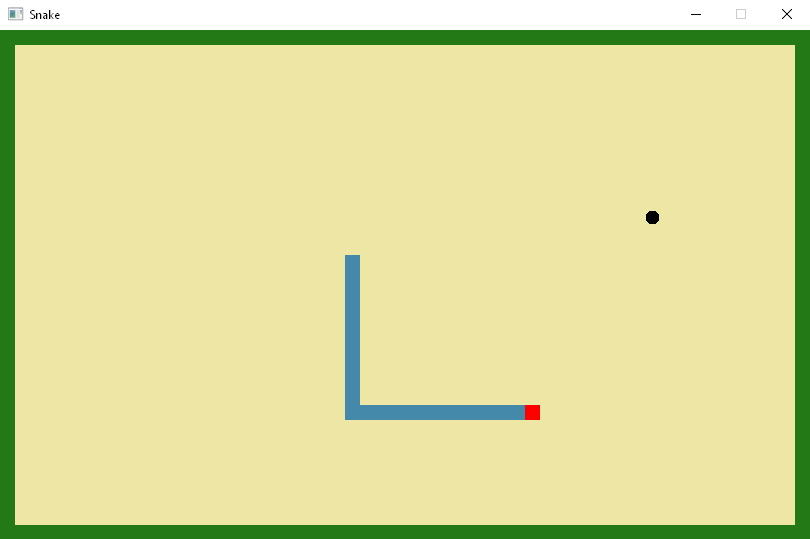
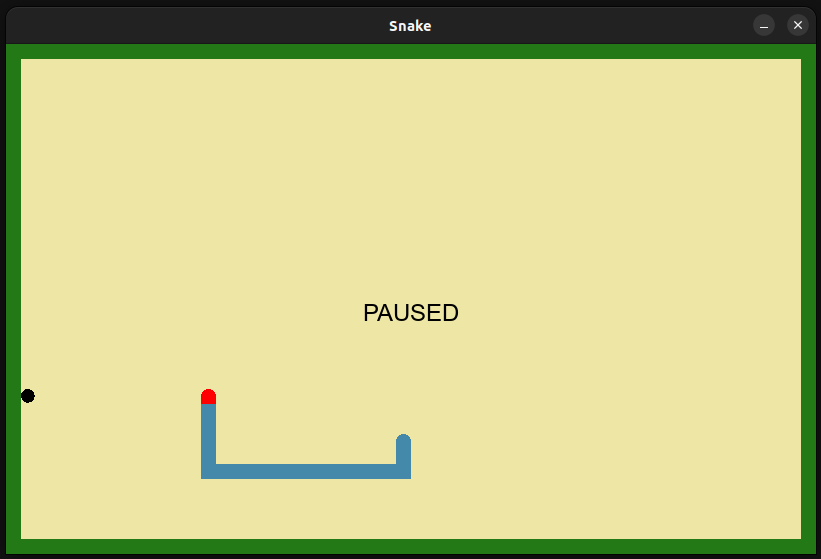
Update Readme and screenshoots

Changed region(s): [[0.0, 0.0, 1.0, 1.0], [0.2469, 0.475, 0.679, 0.8609], [0.8025, 0.3859, 0.8333, 0.4156]]

diff --git a/README.md b/README.md
@@ -1,9 +1,14 @@
 # Snake
-Snake game written in Allegro 5 (C++)
+Snake game written in Allegro 5
 
-Required files: 
-- arial.ttf
-- sample.wav (plays when the tail is cut off)
+To run the game, Allegro5 installation is required.
+
+# Building and running
+    mkdir build
+    cd build
+    cmake ..
+    make
+    ../bin/snake
 
 # Screenshoots
 ![Screen 1](screenshoots/ss1.png)
